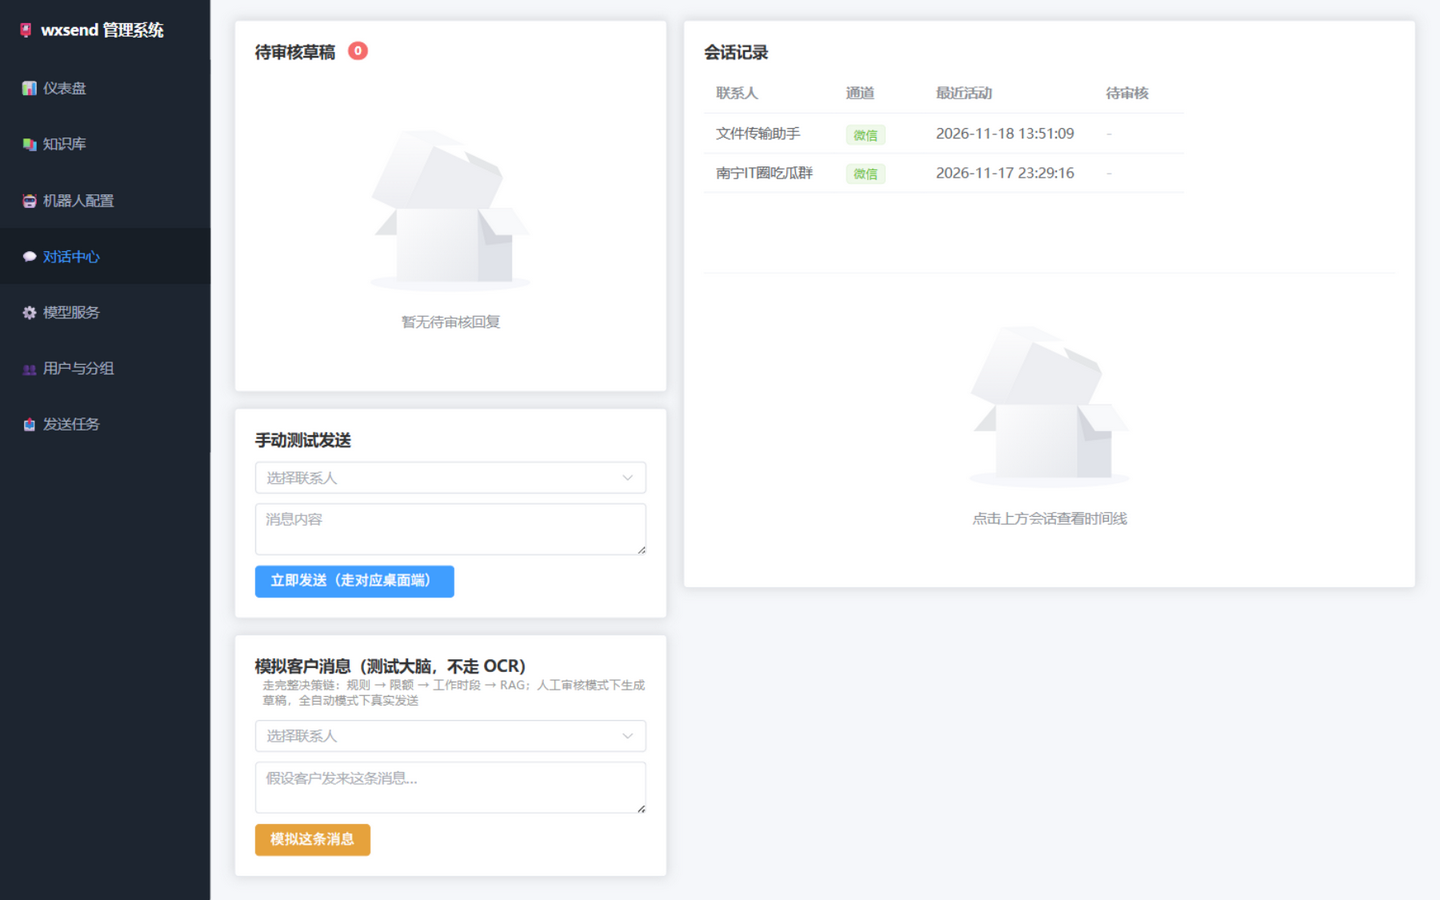
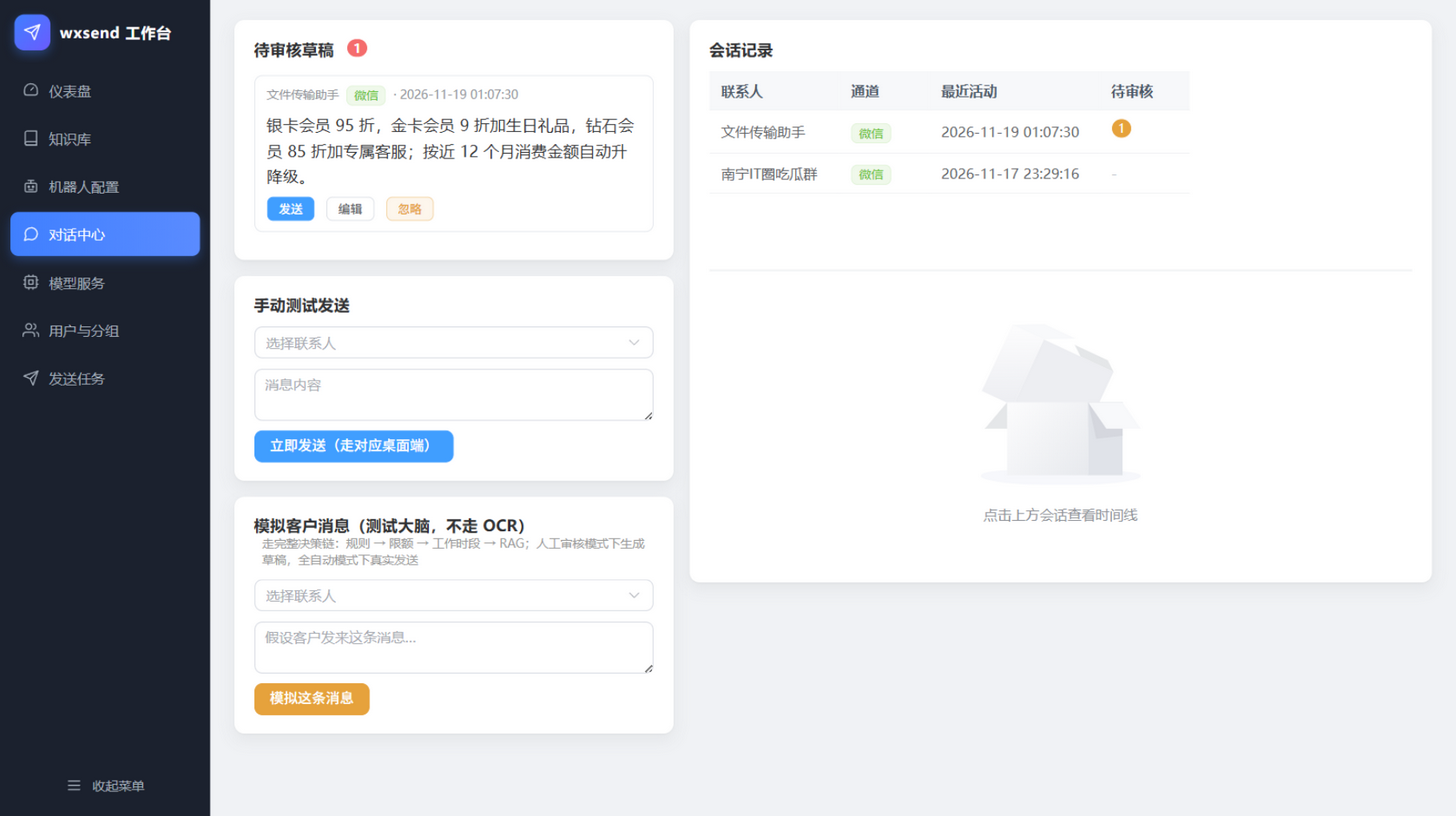
feat：企业微信双通道支持、用户分组管理页、任务管理增强（2026-11 新版界面与实拍）
- 微信 + 企业微信双通道（联系人通道标记 / 任务选通道 / 外部联系人智能匹配，均实机验证）
- 新增「用户与分组」页截图：分组、批量打标签、白名单、已发统计、分页
- 任务页新版界面：发送通道选择、失败重跑、任务删除
- 知识库页修复 computed 缺失 import 导致整页空白的问题
- 全部界面截图更新为 2026-11 新版 UI

diff --git a/README.md b/README.md
@@ -1,28 +1,33 @@
-# wxsend — 微信智能客服 & 自动化营销工作台
+# wxsend — 微信 & 企业微信智能客服 & 自动化营销工作台
 
-> 让微信私域客服 7×24 小时自动营业：**知识库问答 · 未读自动回复 · 批量群发 · 拟人化防风控**，全程「截图 → OCR 识别 → 视觉验证」闭环，不注入、不逆向、不碰协议，用你现有的微信桌面端就能跑。
+> 让私域客服 7×24 小时自动营业：**微信 + 企业微信双通道 · 知识库问答 · 未读自动回复 · 批量群发 · 拟人化防风控**，全程「截图 → OCR 识别 → 视觉验证」闭环，不注入、不逆向、不碰协议，用你现有的微信 / 企业微信桌面端就能跑。
 
 <p align="center">
-  <img src="./screenshots/wechat-demo.png" width="720" alt="自动回复实拍：客户提问，机器人从知识库生成精准答复">
+  <img src="./screenshots/wechat-demo.png" width="360" alt="微信自动回复实拍：客户提问，机器人从知识库生成精准答复">
+  &nbsp;&nbsp;
+  <img src="./screenshots/wecom-demo.png" width="360" alt="企业微信实拍：消息成功送达外部微信联系人">
 </p>
-<p align="center"><i>实拍：客户咨询退货政策，机器人基于知识库自动生成专业回复（含措辞随机化，每次答复不完全一样）</i></p>
+<p align="center"><i>左：微信实拍，客户咨询退货政策，机器人基于知识库自动回复（措辞随机化，每次不完全一样）&nbsp;|&nbsp; 右：企业微信实拍，消息成功送达外部微信联系人</i></p>
 
-***
+---
 
 ## ✨ 它能做什么
 
-| 能力                   | 说明                                                                              |
-| -------------------- | ------------------------------------------------------------------------------- |
-| 🧠 **RAG 知识库问答**     | 上传 txt/md/pdf/docx/FAQ 问答对 → 自动切片入库 → 客户提问时检索知识库生成专业回复；支持 FAQ 高相似直答（毫秒级、不耗 LLM） |
-| 👀 **未读消息自动识别**      | 后台轮询截图 + OCR 识别会话列表，白名单联系人一有新消息立即打开会话读取并回复                                      |
-| 💬 **全自动 / 人工审核双模式** | 全自动模式直接回复客户；审核模式生成草稿，人工一键确认发送，渐进式上线                                             |
-| 📤 **批量群发 & 定时任务**   | 文本/图片/文件，目标支持精确名单、通配符（`*客户*`）、分组（`组:VIP`）；随机限速 + 顺序洗牌 + 连续疲劳休息                  |
-| 🔁 **转发分发**          | 把文件传输助手里的一条消息（文字/图片/文件均可）一次转发勾选多个接收人                                            |
-| 🛡 **五层安全风控**       | 白名单 → 转人工关键词 → 每小时/每日限额 → 工作时段 → 每步 OCR 视觉验证（定位失败即中止，绝不盲发）                      |
-| 🕵 **拟人化引擎**        | 轮询间隔抖动、随机「走神」、打字延迟、回复措辞抖动、深夜减速、疲劳休息——行为更像真人                                     |
-| 🖥 **桌面端一键安装**       | 安装包内置全部运行时，客户机**无需安装 Node.js**，装完即用                                             |
+| 能力 | 说明 |
+|---|---|
+| 🔄 **微信 + 企业微信双通道** | 同一套系统同时运营微信与企业微信：联系人按通道标记，群发任务可选通道，企业微信外部联系人（@微信）智能匹配定位，两端均经实机验证 |
+| 🧠 **RAG 知识库问答** | 上传 txt/md/pdf/docx/FAQ 问答对 → 自动切片入库 → 客户提问时检索知识库生成专业回复；支持 FAQ 高相似直答（毫秒级、不耗 LLM） |
+| 👀 **未读消息自动识别** | 后台轮询截图 + OCR 识别会话列表，白名单联系人一有新消息立即打开会话读取并回复 |
+| 💬 **全自动 / 人工审核双模式** | 全自动模式直接回复客户；审核模式生成草稿，人工一键确认发送，渐进式上线 |
+| 📤 **批量群发 & 定时任务** | 文本/图片/文件，目标支持精确名单、通配符（`*客户*`）、分组（`组:VIP`）；随机限速 + 顺序洗牌 + 连续疲劳休息；任务可删除、失败可重跑、逐目标统计 |
+| 👥 **客户分组管理** | 联系人分组（VIP/新客户…）、批量打标签、白名单开关、已发次数统计、转人工状态一览，支持分页浏览 |
+| 🔁 **转发分发** | 把文件传输助手里的一条消息（文字/图片/文件均可）一次转发勾选多个接收人 |
+| 🛡 **五层安全风控** | 白名单 → 转人工关键词 → 每小时/每日限额 → 工作时段 → 每步 OCR 视觉验证（定位失败即中止，绝不盲发） |
+| 🕵 **拟人化引擎** | 轮询间隔抖动、随机「走神」、打字延迟、回复措辞抖动、深夜减速、疲劳休息——行为更像真人 |
+| 🔐 **激活码授权体系** | Ed25519 签名 + 离线激活码即输即用 + 机器指纹绑定，适合商业分发 |
+| 🖥 **桌面端一键安装** | 安装包内置全部运行时，客户机**无需安装 Node.js**，装完即用 |
 
-***
+---
 
 ## 📸 系统界面
 
@@ -37,7 +42,12 @@
 </p>
 
 <p align="center">
-  <b>发送任务 —— 文本/图片/文件批量群发，随机间隔拟人化执行，逐目标成功/失败统计</b><br>
+  <b>用户与分组 —— 微信 / 企微双通道联系人、分组批量打标签、白名单、已发统计</b><br>
+  <img src="./screenshots/contacts.png" width="720" alt="用户与分组">
+</p>
+
+<p align="center">
+  <b>发送任务 —— 文本/图片/文件批量群发，可选微信或企业微信通道，随机间隔拟人化执行，逐目标成功/失败统计</b><br>
   <img src="./screenshots/tasks.png" width="720" alt="发送任务">
 </p>
 
@@ -51,7 +61,7 @@
   <img src="./screenshots/bot.png" width="720" alt="机器人配置">
 </p>
 
-***
+---
 
 ## ⚙ 工作原理
 
@@ -65,18 +75,19 @@
 
 全程基于 **截图 + OCR + 定向键鼠 + 视觉验证**，每一步都确认界面状态后才执行下一步，任何一环验证失败立即中止——这是与「协议破解型」机器人本质区别，账号风险最低的方案。
 
+- 微信与企业微信走同一条视觉自动化链路，通道差异（窗口布局、外部联系人「@微信」后缀、名称模糊匹配）已在引擎内自动处理
 - 支持任意 **OpenAI 兼容**大模型服务（智谱 / DeepSeek / 通义 / Kimi / 火山方舟…），页面上填地址和 Key 即可切换
 - FAQ 问答对高相似命中时**直接返回答案，不消耗 LLM**
 - LLM 临时不可用时自动降级为知识库原文回复，服务不中断
 
 ## 🖥 部署方式
 
-| 方式             | 说明                                                    |
-| -------------- | ----------------------------------------------------- |
-| **桌面端安装包**（推荐） | 双击安装，内置全部运行时，零环境依赖                                    |
-| 源码运行           | 需 Node.js ≥ 18 与微信桌面端，`npm install && npm run server` |
+| 方式 | 说明 |
+|---|---|
+| **桌面端安装包**（推荐） | 双击安装，内置全部运行时，零环境依赖 |
+| 源码运行 | 需 Node.js ≥ 18 与微信桌面端，`npm install && npm run server` |
 
-- 支持 **Windows**（已实机验证）与 **macOS**
+- 支持 **Windows**（微信 + 企业微信均已实机验证）与 **macOS**
 - 电脑需保持登录微信/企业微信桌面端；自动化执行期间请勿操作键鼠
 
 ## 🎯 适用场景
@@ -88,14 +99,17 @@
 
 ## 🛠 定制服务
 
-系统按你的业务深度定制，欢迎联系（**QQ / 微信同号**）：467643531
+系统按你的业务深度定制，欢迎联系（**QQ / 微信同号**）：
+
+<p align="center">
+  <img src="https://img.shields.io/badge/QQ%2F%E5%BE%AE%E4%BF%A1-467643531-blue" alt="QQ/微信 467643531">
+</p>
 
 可定制方向：
-
 - 接入你的私有知识库 / 业务系统 / 订单数据库
 - 多账号矩阵、多员工协同、私有化部署
 - 界面品牌化（换 Logo / 名称 / 配色）
-- 对接企业微信、公众号等其他渠道
+- 对接公众号、小程序客服等其他渠道
 - 按行业定制话术策略与风控参数
 
 ## 📄 版权与授权
